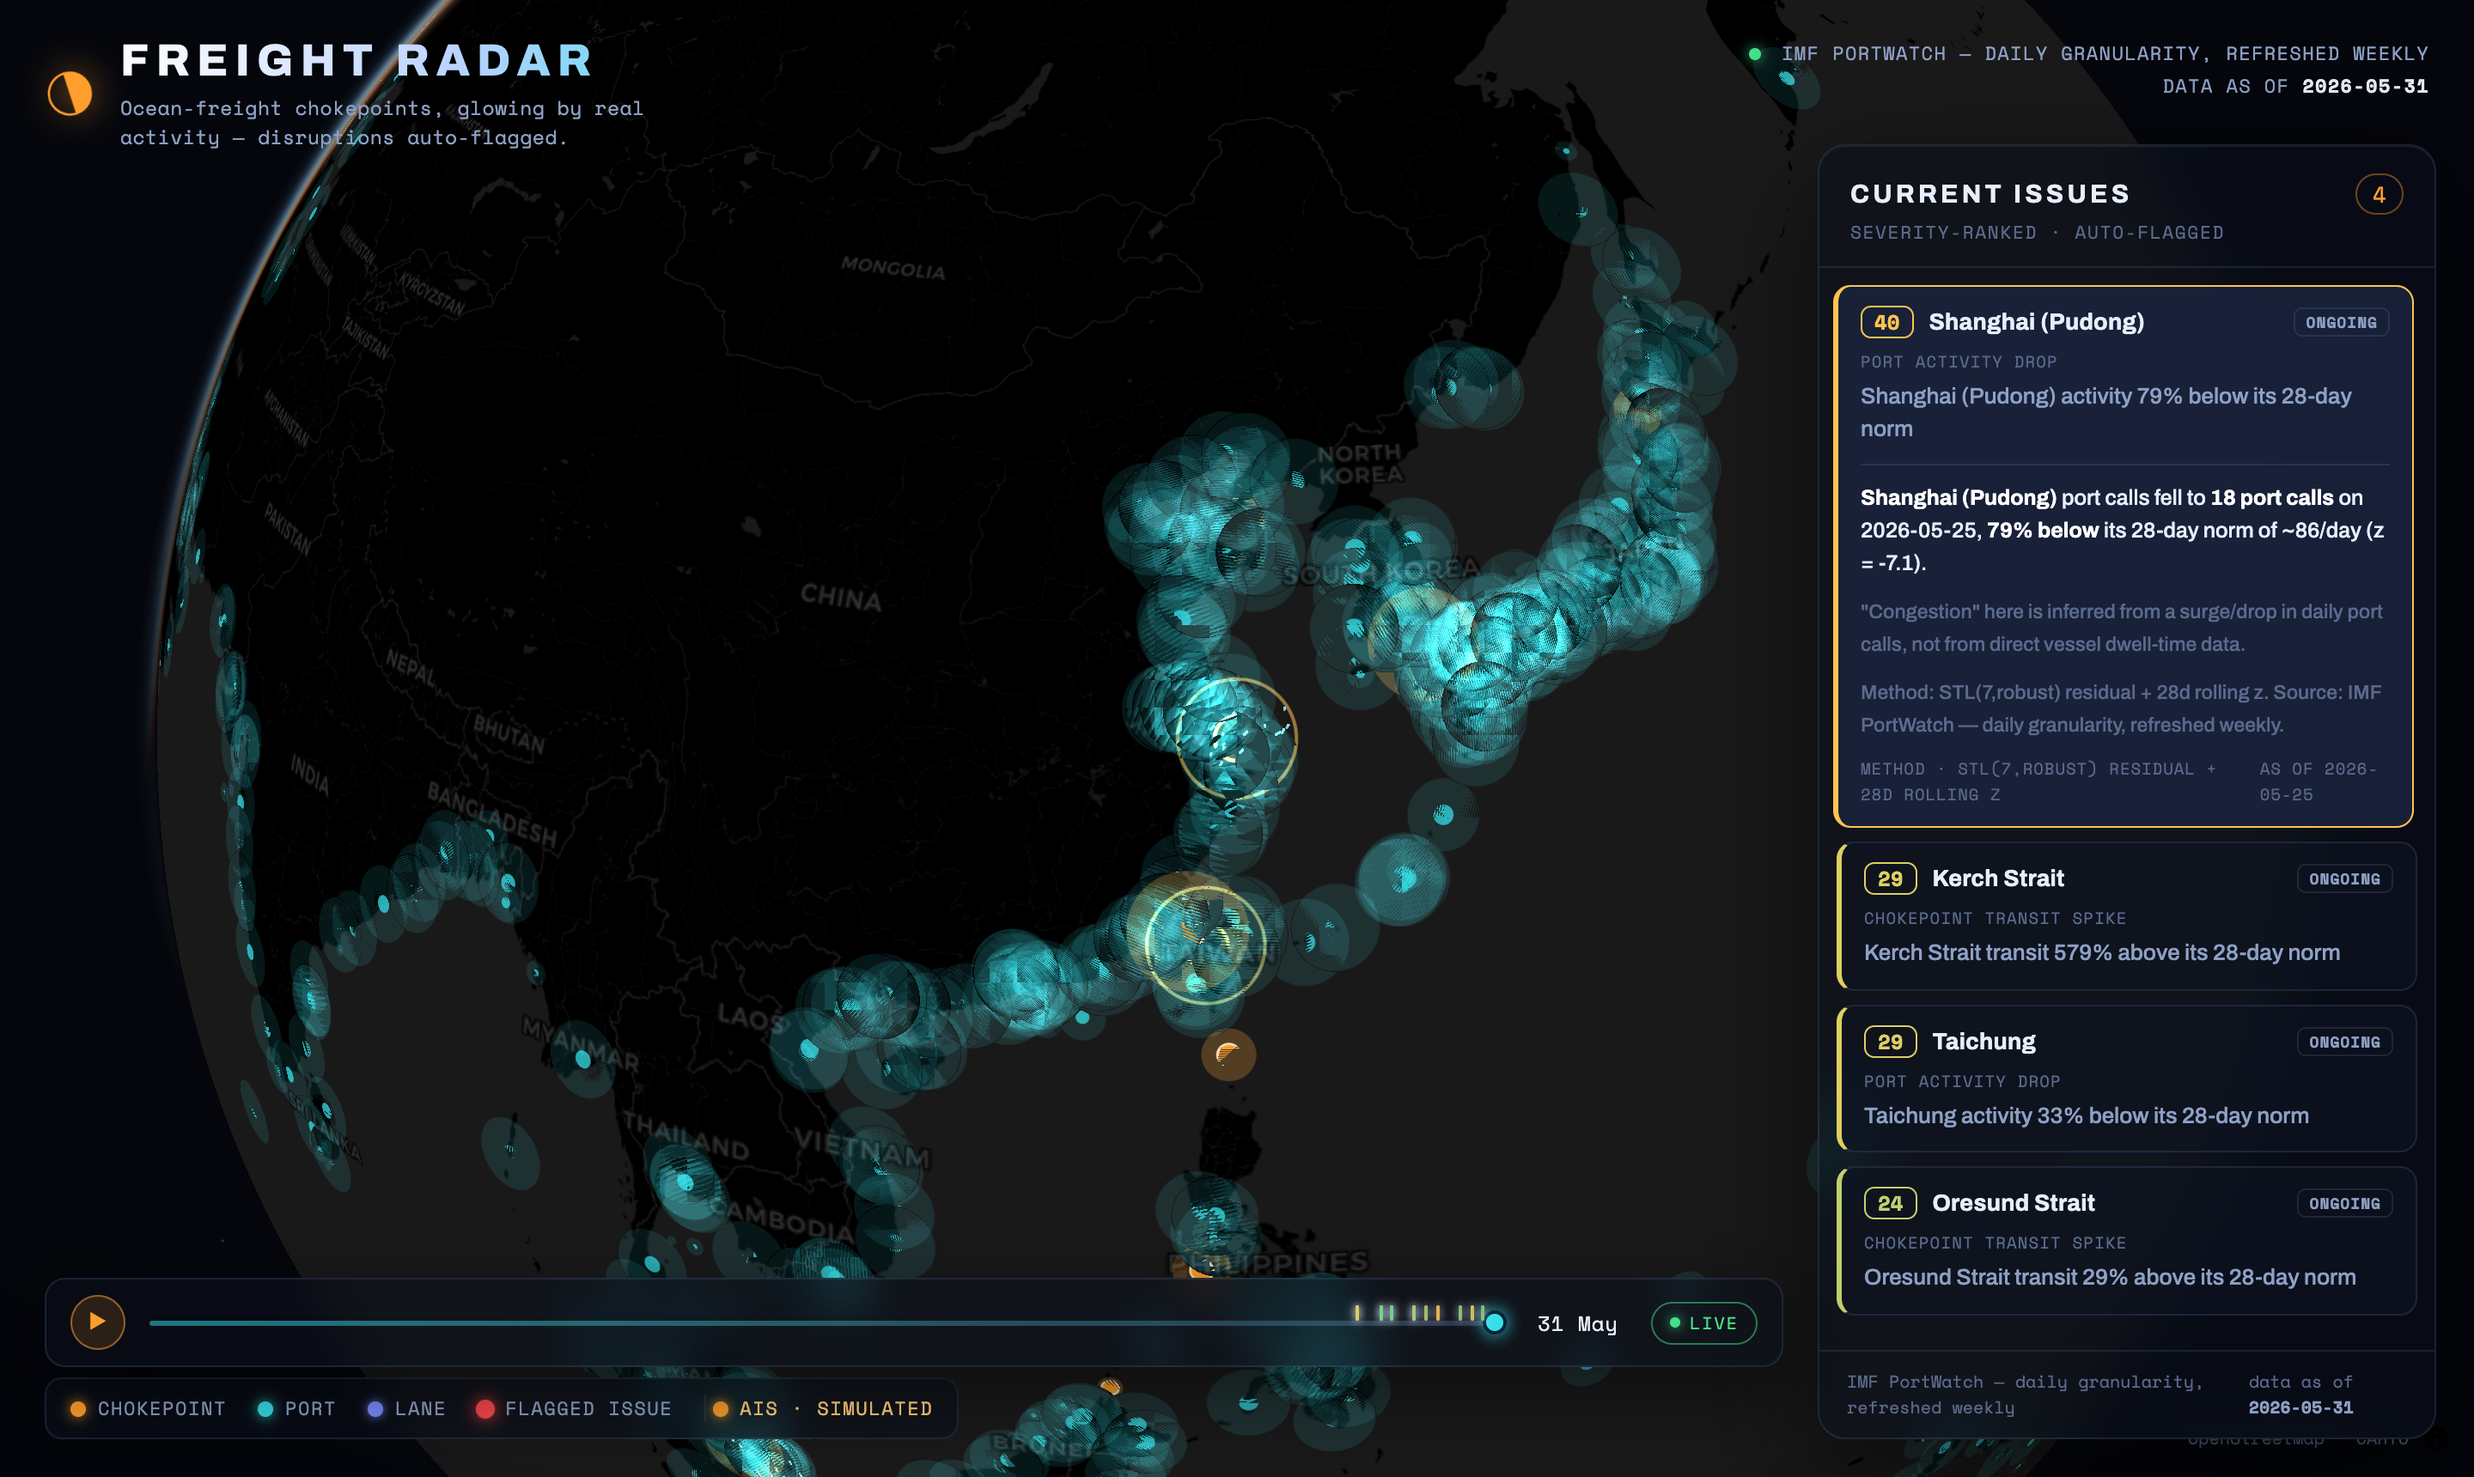
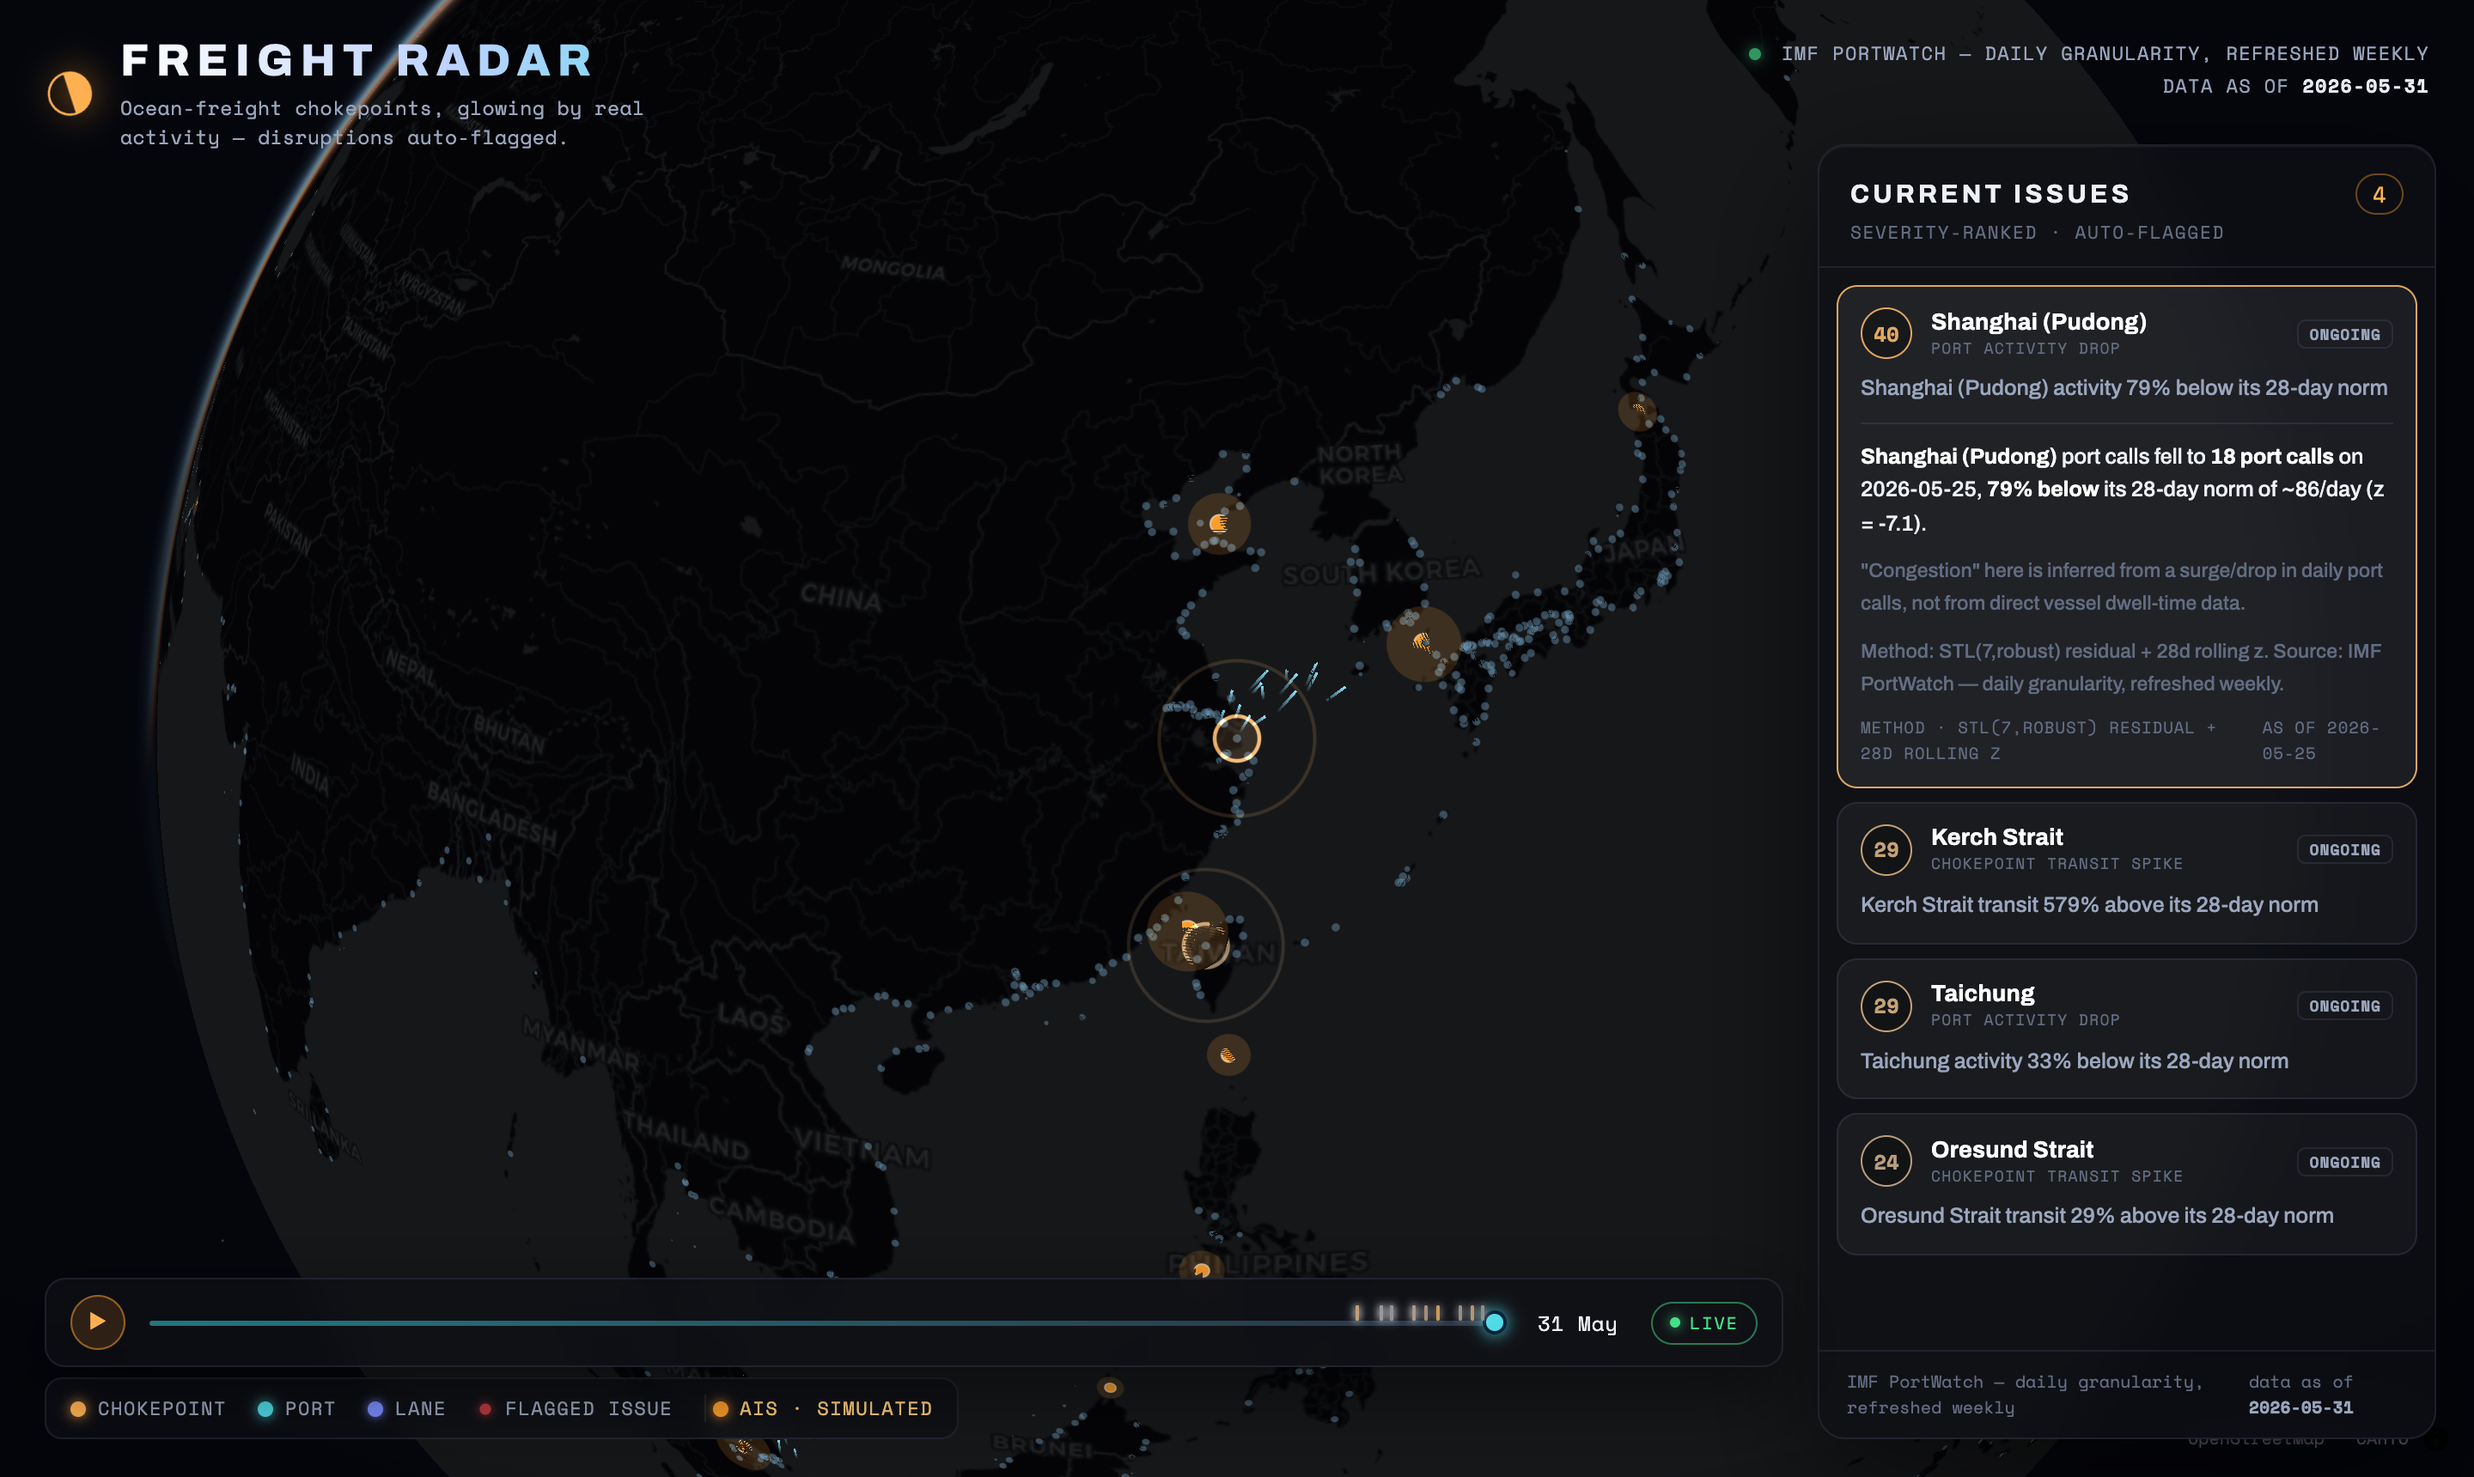
Design pass — declutter the globe + refine the rail and palette
Addressing real visual feedback:
- Globe was "too populated": removed the blooming additive halo on all 2,065
  ports (the blob-maker); ports are now faint ambient dust (tiny dim dots tracing
  the coastlines), and chokepoint glows are tightened so the 28 watched waterways
  are the clear heroes
- Rail "side color" disliked: dropped the rainbow severity left-bars; severity is
  now a clean circular badge, entity/kind stacked, calmer cards with a subtle
  hover lift and no full-height accent bar
- Severity ramp no longer green->yellow->red (green reads "all clear", wrong for
  an alert) — now a muted slate -> amber -> red scale
- "Dark mode looked muddy": cleaner neutral-charcoal palette (less navy), brighter
  ink; basemap desaturated + dropped to 0.62 opacity so the data carries the globe
- Regenerated README hero imagery to match

diff --git a/frontend/src/styles.css b/frontend/src/styles.css
@@ -1,13 +1,14 @@
 :root {
-  --bg: #04060c;
-  --ink: #e7eefc;
-  --ink-dim: #8da0c4;
-  --ink-faint: #5b6a8c;
-  --amber: #ff9e2c;
-  --cyan: #36e0e8;
-  --line: rgba(120, 150, 210, 0.16);
-  --panel: rgba(9, 14, 26, 0.62);
-  --panel-solid: #070b15;
+  --bg: #060708;
+  --ink: #eef1f7;
+  --ink-dim: #9aa6bd;
+  --ink-faint: #626d82;
+  --amber: #ffb152;
+  --cyan: #4fdbe6;
+  --line: rgba(150, 168, 205, 0.12);
+  --panel: rgba(13, 15, 20, 0.74);
+  --panel-solid: #0b0d12;
+  --hair: rgba(255, 255, 255, 0.04);
   --mono: 'Space Mono', ui-monospace, 'SFMono-Regular', Menlo, monospace;
   --display: 'Archivo', system-ui, sans-serif;
 }
@@ -155,21 +156,27 @@ html, body, #root {
 
 .fr-card {
   --accent: #888; text-align: left; cursor: pointer; color: var(--ink);
-  background: rgba(13, 19, 34, 0.6); border: 1px solid var(--line);
-  border-left: 3px solid var(--accent); border-radius: 10px; padding: 11px 13px;
-  font-family: var(--display); transition: background 0.15s, transform 0.1s, border-color 0.15s;
+  background: var(--hair); border: 1px solid var(--line);
+  border-radius: 12px; padding: 12px 13px;
+  font-family: var(--display); transition: background 0.15s, border-color 0.15s;
 }
-.fr-card:hover { background: rgba(22, 31, 53, 0.8); transform: translateX(-2px); }
-.fr-card.is-active { background: rgba(24, 34, 58, 0.92); border-color: var(--accent); }
-.fr-card-top { display: flex; align-items: center; gap: 9px; margin-bottom: 6px; }
+.fr-card:hover { background: rgba(255, 255, 255, 0.05); border-color: rgba(150, 168, 205, 0.28); }
+.fr-card.is-active { background: rgba(255, 255, 255, 0.07); border-color: var(--accent); }
+.fr-card-top { display: flex; align-items: center; gap: 11px; margin-bottom: 8px; }
 .fr-sev {
+  flex: none; width: 30px; height: 30px; border-radius: 50%;
+  display: flex; align-items: center; justify-content: center;
   font-family: var(--mono); font-size: 12px; font-weight: 700;
-  border: 1px solid; border-radius: 6px; padding: 0 7px; min-width: 30px; text-align: center;
+  border: 1.5px solid; background: rgba(0, 0, 0, 0.3);
 }
-.fr-card-entity { font-weight: 700; font-size: 13.5px; letter-spacing: 0.01em; }
+.fr-card-titles { display: flex; flex-direction: column; gap: 1px; min-width: 0; }
+.fr-card-entity {
+  font-weight: 700; font-size: 13.5px; color: #fff; letter-spacing: 0.01em;
+  white-space: nowrap; overflow: hidden; text-overflow: ellipsis;
+}
 .fr-card-kind-row {
-  font-family: var(--mono); font-size: 9.5px; color: var(--ink-faint);
-  text-transform: uppercase; letter-spacing: 0.06em; margin: 0 0 5px;
+  font-family: var(--mono); font-size: 9px; color: var(--ink-faint);
+  text-transform: uppercase; letter-spacing: 0.07em;
 }
 .fr-lc {
   margin-left: auto; font-family: var(--mono); font-size: 9px; font-weight: 700;
@@ -184,7 +191,7 @@ html, body, #root {
 .fr-card.is-resolved .fr-card-headline {
   text-decoration: line-through; text-decoration-color: rgba(141,160,196,0.4);
 }
-.fr-card-headline { font-size: 13px; color: var(--ink-dim); line-height: 1.45; }
+.fr-card-headline { font-size: 12.5px; color: var(--ink-dim); line-height: 1.5; }
 .fr-card-brief {
   margin-top: 10px; padding-top: 10px; border-top: 1px solid var(--line);
   font-size: 12.5px; color: var(--ink); line-height: 1.55;

diff --git a/frontend/src/Globe.jsx b/frontend/src/Globe.jsx
@@ -30,10 +30,10 @@ const STYLE = {
       type: 'raster',
       source: 'carto',
       paint: {
-        'raster-opacity': 0.96,
-        'raster-contrast': 0.18,
-        'raster-saturation': 0.2,
-        'raster-brightness-min': 0.03,
+        'raster-opacity': 0.62,
+        'raster-saturation': -0.4,
+        'raster-contrast': 0.04,
+        'raster-brightness-min': 0.0,
       },
     },
   ],
@@ -94,30 +94,17 @@ function buildLayers({ ports, chokepoints, lanes, flags, ships, tripTime, tMax, 
       parameters: ADDITIVE,
     }),
 
-    // --- ports: faint additive halo + bright core -------------------------
+    // --- ports: faint ambient dust (no blooming halo) ---------------------
     new ScatterplotLayer({
-      id: 'ports-halo',
+      id: 'ports',
       data: ports,
       getPosition: (d) => [d.lon, d.lat],
-      getRadius: (d) => sqrtScale(d.vessels, 2.4),
+      getRadius: (d) => sqrtScale(d.vessels, 0.34),
       radiusUnits: 'pixels',
-      radiusMinPixels: 1.5,
-      radiusMaxPixels: 26,
-      getFillColor: [...CYAN, 26],
-      parameters: ADDITIVE,
-      pickable: false,
-    }),
-    new ScatterplotLayer({
-      id: 'ports-core',
-      data: ports,
-      getPosition: (d) => [d.lon, d.lat],
-      getRadius: (d) => sqrtScale(d.vessels, 0.7),
-      radiusUnits: 'pixels',
-      radiusMinPixels: 0.6,
-      radiusMaxPixels: 6,
-      getFillColor: [...CYAN, 190],
+      radiusMinPixels: 0.4,
+      radiusMaxPixels: 2.4,
+      getFillColor: [108, 150, 178, 120],
       pickable: true,
-      onClick: () => {},
     }),
 
     // --- chokepoints: amber halo + ringed core ----------------------------
@@ -125,11 +112,11 @@ function buildLayers({ ports, chokepoints, lanes, flags, ships, tripTime, tMax, 
       id: 'choke-halo',
       data: chokepoints,
       getPosition: (d) => [d.lon, d.lat],
-      getRadius: (d) => sqrtScale(d.n_total, 2.1),
+      getRadius: (d) => 4 + sqrtScale(d.n_total, 1.15),
       radiusUnits: 'pixels',
-      radiusMinPixels: 8,
-      radiusMaxPixels: 58,
-      getFillColor: [...AMBER, 58],
+      radiusMinPixels: 5,
+      radiusMaxPixels: 26,
+      getFillColor: [...AMBER, 40],
       parameters: ADDITIVE,
       pickable: false,
     }),
@@ -137,14 +124,14 @@ function buildLayers({ ports, chokepoints, lanes, flags, ships, tripTime, tMax, 
       id: 'choke-core',
       data: chokepoints,
       getPosition: (d) => [d.lon, d.lat],
-      getRadius: (d) => 4 + sqrtScale(d.n_total, 0.36),
+      getRadius: (d) => 2.6 + sqrtScale(d.n_total, 0.22),
       radiusUnits: 'pixels',
-      radiusMinPixels: 4,
-      radiusMaxPixels: 13,
+      radiusMinPixels: 2.6,
+      radiusMaxPixels: 7,
       getFillColor: [...AMBER, 255],
       stroked: true,
-      lineWidthMinPixels: 1.4,
-      getLineColor: [255, 232, 196, 240],
+      lineWidthMinPixels: 1,
+      getLineColor: [255, 226, 188, 210],
       pickable: true,
     }),
 

diff --git a/frontend/src/components/IssuesRail.jsx b/frontend/src/components/IssuesRail.jsx
@@ -11,14 +11,6 @@ const LIFECYCLE = {
 // active issues first (by severity), resolved tombstones dimmed at the bottom
 const order = (f) => (f.lifecycle === 'resolved' ? 1 : 0);
 
-function SeverityBadge({ s }) {
-  return (
-    <span className="fr-sev" style={{ color: severityCss(s), borderColor: severityCss(s) }}>
-      {s}
-    </span>
-  );
-}
-
 function FlagCard({ flag, active, onSelect }) {
   const accent = severityCss(flag.severity);
   const lc = LIFECYCLE[flag.lifecycle] || null;
@@ -30,11 +22,15 @@ function FlagCard({ flag, active, onSelect }) {
       onClick={() => onSelect(active ? null : flag)}
     >
       <div className="fr-card-top">
-        <SeverityBadge s={flag.severity} />
-        <span className="fr-card-entity">{flag.entity}</span>
+        <span className="fr-sev" style={{ color: accent, borderColor: accent }}>
+          {flag.severity}
+        </span>
+        <div className="fr-card-titles">
+          <span className="fr-card-entity">{flag.entity}</span>
+          <span className="fr-card-kind-row">{flag.kind.replaceAll('_', ' ')}</span>
+        </div>
         {lc && <span className={`fr-lc ${lc.cls}`}>{lc.label}</span>}
       </div>
-      <div className="fr-card-kind-row">{flag.kind.replaceAll('_', ' ')}</div>
       <div className="fr-card-headline">{flag.headline}</div>
       {active && (
         <div className="fr-card-brief">

diff --git a/frontend/src/lib/colors.js b/frontend/src/lib/colors.js
@@ -3,12 +3,13 @@ export const AMBER = [255, 158, 44];
 export const CYAN = [54, 224, 232];
 export const LANE = [122, 142, 255];
 
-// Severity ramp 0 -> 100 : teal-green -> amber -> orange -> red.
+// Severity ramp 0 -> 100 : cool slate -> warm amber -> red. No green
+// (green reads "all clear", wrong for an alert). Muted, not neon.
 const RAMP = [
-  [0, [64, 209, 160]],
-  [35, [255, 206, 84]],
-  [65, [255, 142, 60]],
-  [100, [255, 73, 79]],
+  [0, [125, 142, 170]],
+  [40, [224, 168, 96]],
+  [70, [233, 130, 74]],
+  [100, [231, 92, 86]],
 ];
 
 export function severityColor(s, alpha = 255) {
